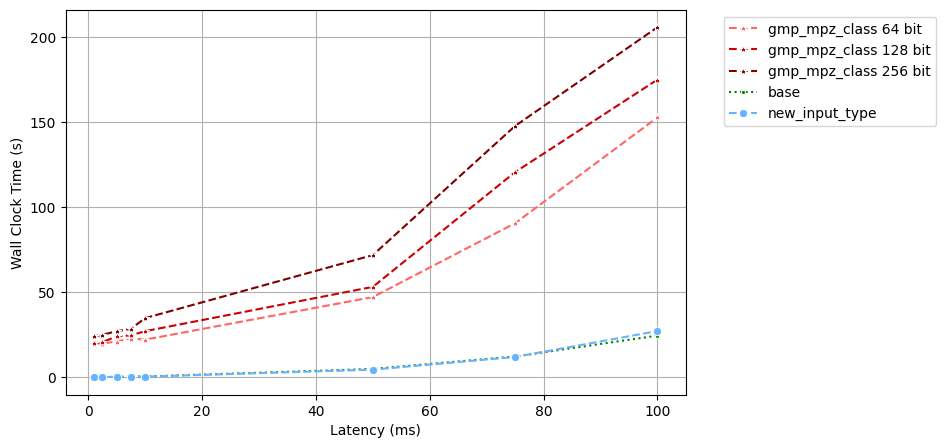
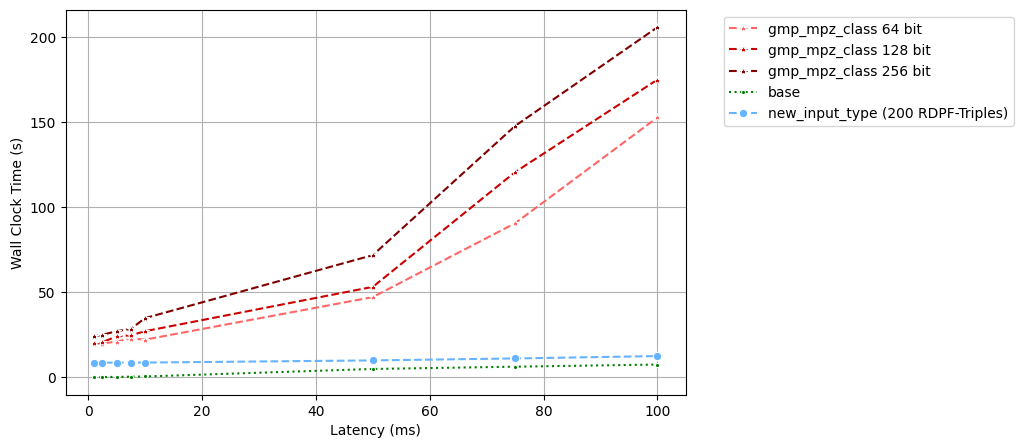
experimental evaluation was wird getestet und standardwerte festgelegt

diff --git a/sections/evaluation/experimentalEvaluation.tex b/sections/evaluation/experimentalEvaluation.tex
@@ -8,11 +8,12 @@ It, too, is tested for 64, 128, and 256 bits.
 
 The base implementation by Vadapalli et al. (\ref{sec:ExistingImplementation}) is defined for 64 bits only.
 Yet, it will partake in the benchmarks for 64 bits serving as a reference.
+It is called \textit{base} in the following.
 
 \subsection{Construction}\label{sub:expEvaConstruction}
-The author chose to use \textit{Docker} and \textit{Docker Compose} for uniform testing results.
-Each approach consists out of three containers, each resembling a single party $P_b$.
-These containers are then strapped together via \code{Docker Compose}, providing networking and a uniform interface for setting testing parameters.
+The author uses \textit{Docker} and \textit{Docker Compose} to create a uniform testing environment.
+Each test runs three containers with each container resembling a single party $P_b$.
+These containers are then strapped together via \textit{Docker Compose} providing networking and a uniform interface for setting testing parameters.
 
 \paragraph{Communication and Linux Traffic Control}\label{sub:dockerCommunication}
 All approaches use \textit{Boost.Asio v1.18.1} for asynchronous communication.
@@ -20,34 +21,37 @@ As each party now has its own container, messages need to be exchanged over a ne
 For this purpose, a docker network using the bridge driver is used.
 It allows referencing other containers by specifying their name.
 As the executable requires the addresses of the other parties as input, one now simply inserts the other containers' names to reference the other parties.
+The container of party $P_0$ is called \code{p0}, $P_1$'s container \code{p1}, and $P_2$'s container \code{p2}.
 
 Using docker compose networks yields the great advantage of network manipulation via \textit{Linux Traffic Control (tc)}.
 tc sets fundamental network properties such as bandwidth, latency, jitter, and burst-size.
 Specifying these properties in the \code{docker-compose.yaml} or in an \code{.env} file respectively simulates different network conditions.
 For testing purposes, the author chose to manipulate the bandwidth of the network and the latency of each party.
-If not specified differently latency is set to 1ms, bandwidth to 100mbits.
+If not explicitly specified latency is set to 1ms, bandwidth to 100mbits.
 
 \paragraph{Resulting Construction}\label{par:dockerConstruction}
 These changes result in a single Dockerfile that can be reused for all implemented approaches.
 It will generate a fitting Docker-Image given the source code and generate the \code{prac} executable.
 Each image is tagged with the name of the approach.
-This image is then referenced in the \code{docker-compose.yaml} which is unique for each approach.
+This image is then referenced in the \code{docker-compose.yaml} which is unique for each approach as different images are referenced.
 The compose-file itself uses an \code{.env} file to set its environment variables, such as the depth of the RDPF-Triples or the number of elements to retrieve from the database.
 Each compose-file will then run the tests of the chosen approach returning the given performance numbers.
-The following section describes these numbers in more detail.
+The following section describes these numbers in greater detail.
 
 \subsection{Test Metrics and Types}\label{sub:testMetricsAndTypes}
 This section describes the tests executed and the measured performance metrics.
 Each party logs its own test results.
-Note that these results vary between parties, as, for example, the server sends fewer messages during reading as the peers.
+These logs show slight variations between the parties.
+However, these differences are very small and occur by definition of the protocol.
+Therefore, all evaluated results are based on the logs of $P_0$, or container \code{p0} respectively.
 These results can be further separated into preprocessing and online phase.
-Therefore, different tests and benchmarks are executed for preprocessing and writing.
+Different tests and benchmarks are executed for preprocessing and writing.
 
 \paragraph{Logs and Operations}\label{par:expOutputs}
 Logs in general show the following information:
 \begin{itemize}
     \item The number of messages sent 
-    \item The Number of message bytes sent 
+    \item The number of message bytes sent 
     \item The number of latencies which is equivalent to the Lamport clock of each party
     \item Number of local AES operations
     \item Summarized wall clock time for both the user and the system
@@ -67,26 +71,52 @@ The last type of operation, \textit{Interleaved Operations}, is a combination of
 Note that this results in executing two reads in sequence before writing, as updating consists out of both reading and writing (\ref{par:DuoramWriting}). 
 An exemplary online output of party $P_0$ is shown in \ref{lst:exampleOnlineOutput}.
 
-\paragraph{Preprocessing Benchmarks}\label{par:preprocBenchmarksNumbers}
+\paragraph{Preprocessing Benchmarks and Default Values}\label{par:preprocBenchmarksNumbers}
 Benchmarks in the preprocessing phase will test for the following metrics:
 \begin{itemize}
-    \item Storage requirements, Lamport clock, and wall clock time for increasing depth and constant number of RDPF-Triples
-    \item Storage requirements, Lamport clock, and wall clock time for constant depth and increasing number of RDPF-Triples
-    \item Lamport clock and wall clock time for increasing latency and consistent bandwidth
-    \item Lamport clock and wall clock time for decreasing bandwidth and constant latency
+    \item Storage requirements for increasing depth, a constant number of generated RDPF-Triples, constant bandwidth, and constant latency
+    \item Wall-Clock time for increasing depth, constant number of generated RDPF-Triples, constant latency, and constant bandwidth 
+    \item Number of local AES operations
+    \item Wall-Clock time for increasing latency, constant number of generated RDPF-Triples, constant depth, and constant bandwidth 
+    \item Wall-Clock time for decreasing bandwidth, constant number of generated RDPF-Triples, constant depth, and constant latency 
 \end{itemize}
 
-Recall that the implementation of the approaches does not change to the underlying algorithms fundamentally.
-Therefore, the number of AES operations is expected to stay at a constant level throughout the different approaches.
-It will not be benchmarked.
+These benchmarks cover the most significant characteristics of each approach.
+\textit{Constant} value means the standard values are used.
+The standard values for bandwidth (100mbits) and latency (1ms) as defined above remain valid.
+If not specified explicitly, \textit{gmp\_mpz\_class} and \textit{base} generate 50 RDPF-Triples each.
+Recall the behavior of \textit{new\_input\_type} in the online phase of aggregating multiple database entries into a single entry (\ref{sub:PossibilityLargerRegisterType}).
+This means, for our bit testing range, up to four times the amount of RDPF-Triples are required.
+Therefore, the standard value of generated RDPF-Triples for \textit{new\_input\_type} is 200.
+The standard value for depth is 15 resulting in a database holding up to $2^{15}$ entries.
 
-\paragraph{Online Benchmarks}\label{par:onlineBenchmarksNumbers}
+\paragraph{Online Benchmarks and Default Values}\label{par:onlineBenchmarksNumbers}
 Online benchmarks will check the following metrics:
 \begin{itemize}
-    \item Storage requirements, Lamport clock, and wall clock time for increasing database size and constant number of elements retrieved
-    \item Storage requirements, Lamport clock, and wall clock time for increasing number of retrieved elements and constant database size
-    \item Lamport clock and wall clock time for increasing latency and constant bandwidth
-    \item Lamport clock and wall clock time for decreasing bandwidth and constant latency
+    \item Wall-Clock time for increasing latency, constant number of elements retrieved or updated, and constant bandwidth
+    \item Wall-Clock time for decreasing bandwidth, constant number of elements retrieved or updated, and constant latency 
+    \item Number of sent messages for increasing number of retrieved or updated items, constant bandwidth, and constant latency 
+    \item Amount of message bytes sent for increasing number of retrieved or updated items, constant bandwidth, and constant latency
 \end{itemize}
 
+All the benchmarks are executed separately for reading and updating.
+Executing these tests requires the preprocessing to be executed in advance.
+This means 50 RDPF-Triples of depth 15 for both \textit{gmp\_mpz\_class} and \textit{base}, 200 RDPF-Triples of depth 15 for \code{new\_input\_type}.
+It will, however, not be included in the online results as the preprocessing phase in benchmarked separately.
+
+The standard values of bandwidth (100mbits) and latency (1ms) from above remain valid.
+If not given explicitly, the number of retrieved or updated items per operation is set to 5.
+Next, the size of the used database in these benchmarks is set to $2^{15}$.
+This means, 
+
+All the described benchmarking parameters for both the online and preprocessing phase are collected for all implemented bit-sizes.
+
 \subsection{Benchmarks}\label{sub:expEvalBenchmarks}
+The tests are executed on a Surface Laptop Studio with 16 GB of RAM and an Intel i5 9th generation running Ubuntu 24.04.1 LTS.
+Recall each party running in its own container.
+These containers, too, run the latest Ubuntu release.
+The results are collected and plotted using seaborn.
+
+\subsubsection*{Preprocessing}\label{subsub:expPreprocBenchmarks}
+
+\subsubsection*{Online}\label{subsub:expOnlineBenchmarks}

diff --git a/plots/code/preproc/latency_preproc.py b/plots/code/preproc/latency_preproc.py
@@ -34,14 +34,14 @@ df_mpz_256 = pd.DataFrame({
 
 df_base = pd.DataFrame({
     "x":[x1,x2,x3,x4,x5, x6, x7, x8],
-    "y":[0.07,0.162,0.260,0.374,0.504,4.923,12.265,24.522],
+    "y":[0.07,0.162,0.260,0.374,0.504,4.923,6.265,7.522],
     "Approach":"base"
 })
 
 df_new_input_type = pd.DataFrame({
     "x":[x1,x2,x3,x4,x5, x6, x7, x8],
-    "y":[0.08,0.123,0.330,0.352,0.408,4.493,11.984,27.188],
-    "Approach":"new_input_type"
+    "y":[8.594,8.625,8.638,8.646,8.680,9.953,11.101,12.491],
+    "Approach":"new_input_type (200 RDPF-Triples)"
 })
 
 plt.figure(figsize=(8,5))
